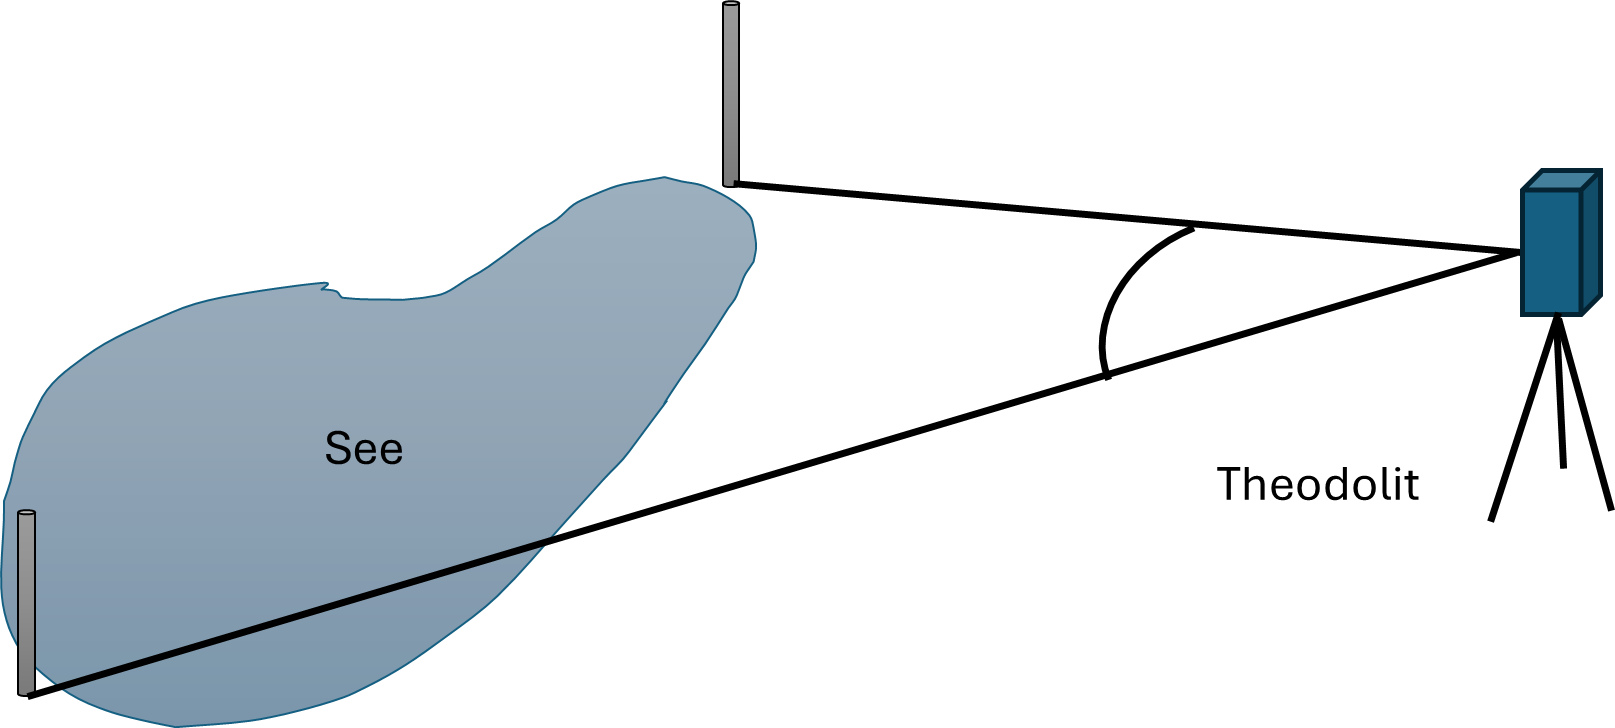
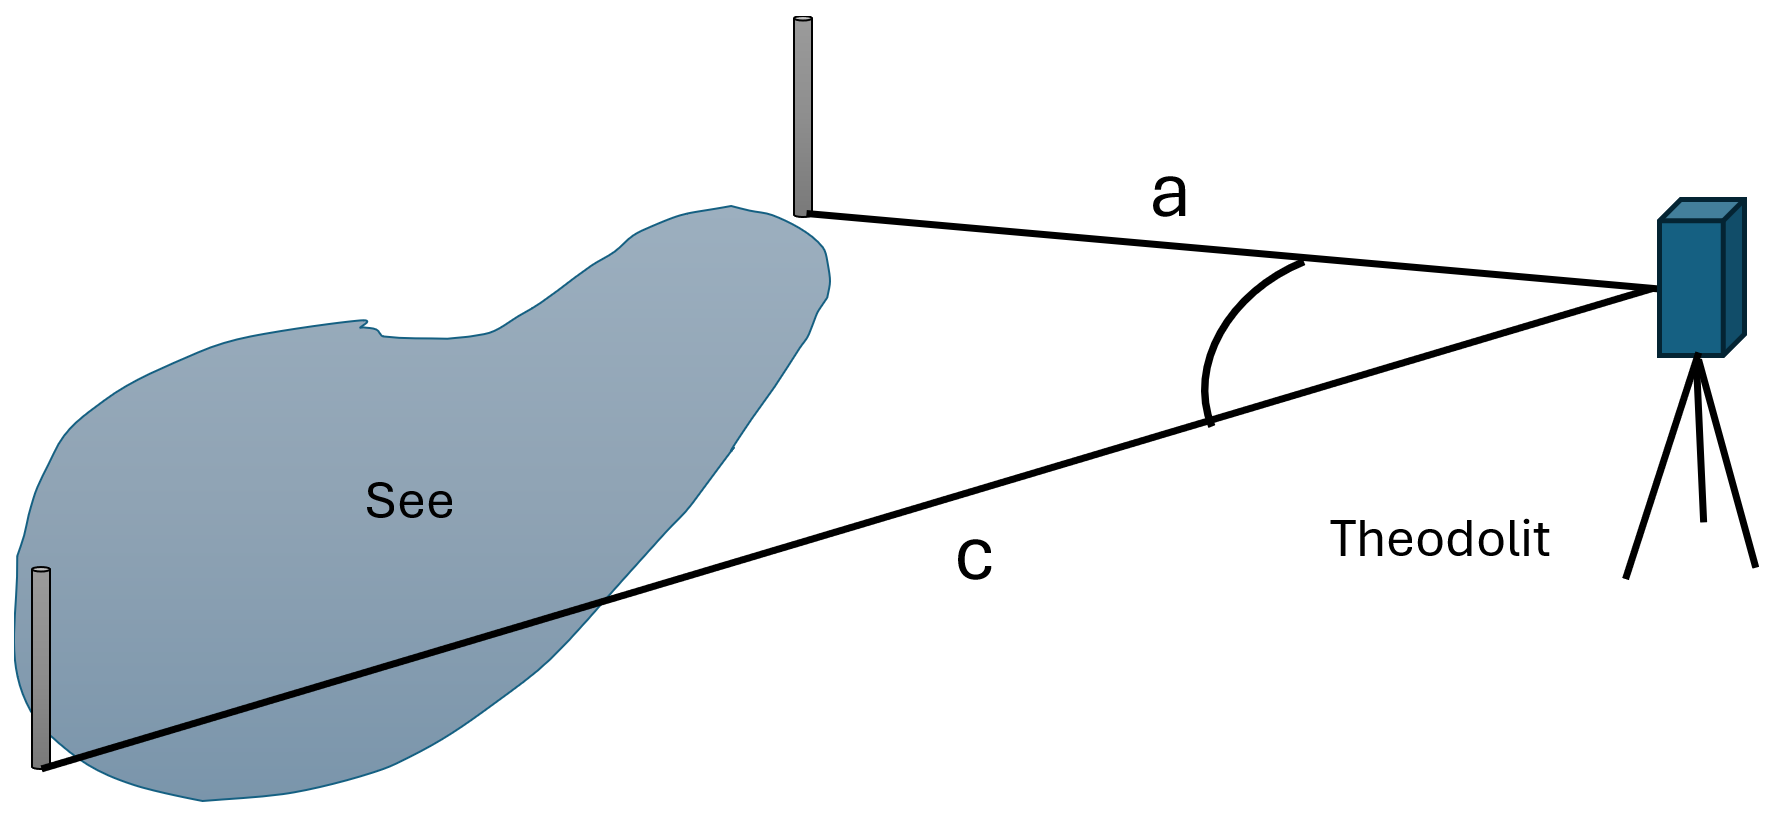
fehler behoben

diff --git a/Aufgaben/Mittelstufe_Geometrie.py b/Aufgaben/Mittelstufe_Geometrie.py
@@ -679,6 +679,7 @@ def sachaufgabe_rampe(nr, BE=[]):
 
 def berechnungen_allg_dreieck(nr, teilaufg=['a', 'b', 'c'], BE=[]):
     # Berechnungen im allgemeinen Dreieck
+    # Mit dem Parameter "teilaufg=" können die Teilaufgaben ausgewählt werden. Zum Beispiel "teilaufg=['a', 'c']" erzeugt eine Aufgabe, in der nur Teilaufgabe 'a' und 'c' enthalten sind.
     # Mit dem Parameter "BE=[]" kann die Anzahl der Bewertungseinheiten festgelegt werden. Wird hier nichts eingetragen, werden die Standardbewertungseinheiten verwendet.
     liste_punkte = []
     liste_bez = []
@@ -718,7 +719,7 @@ def berechnungen_allg_dreieck(nr, teilaufg=['a', 'b', 'c'], BE=[]):
         ges_b =  ',~' + seite_3
     if 'c' in teilaufg:
         ges_c = ',~ A'
-    gegeben_und_gesucht = (' \mathrm{geg:~} ' + seite_1 + '~=~' + gzahl(seite_wert_1)
+    gegeben_und_gesucht = (r' \mathrm{geg:~} ' + seite_1 + '~=~' + gzahl(seite_wert_1)
                            + r'cm, \quad ' + seite_2 + '~=~' + gzahl(seite_wert_2) + r'cm, \quad ' + winkel_1
                            + '~=~' + latex(winkel_wert_1) + r'^{ \circ } \quad \mathrm{ges \colon ~}'
                            + ges_a + ges_b + ges_c + r' \quad (1BE) \quad \mathrm{aus~der~Planskizze~(1BE)~folgt:~} \\')
@@ -788,6 +789,7 @@ def berechnungen_allg_dreieck(nr, teilaufg=['a', 'b', 'c'], BE=[]):
 
 def pruefung_kl10_allg_dr_01(nr, teilaufg=['a', 'b', 'c', 'd'], BE=[]):
     # das ist eine orginale Aufgabe der Abschlussprüfung Klasse 10 in Brandenburg zur Trigonometrie
+    # Mit dem Parameter "teilaufg=" können die Teilaufgaben ausgewählt werden. Zum Beispiel "teilaufg=['a', 'c']" erzeugt eine Aufgabe, in der nur Teilaufgabe 'a' und 'c' enthalten sind.
     # Mit dem Parameter "BE=[]" kann die Anzahl der Bewertungseinheiten festgelegt werden. Wird hier nichts eingetragen, werden die Standardbewertungseinheiten verwendet.
     liste_punkte = []
     liste_bez = []
@@ -903,16 +905,16 @@ def sachaufgabe_vermessung_see(nr, BE=[]):
 
     aufgabe = [MediumText(bold('Aufgabe ' + str(nr) + ' \n\n')),
                'Um die Länge eines Sees zu vermessen, wurden mit einem Theodoliten die Entfernung zu den äußeren '
-               f'Ufern mit {gzahl(seite_a)}km und {gzahl(seite_c)}km und der eingeschlossen Winkel von {gzahl(beta)}° '
-               f'bestimmt. Berechnen Sie die Länge des Sees.', 'Bild',
+               f'Ufern mit a = {gzahl(seite_a)}km und c = {gzahl(seite_c)}km und der eingeschlossen Winkel von '
+               f'{gzahl(beta)}° bestimmt. Berechnen Sie die Länge des Sees.', 'Bild',
                'Die Skizze der Vermessung des Sees ist nicht maßstabsgerecht \n\n']
     loesung = [r' \mathbf{Lösung~Aufgabe~}' + str(nr) + r' \hspace{35em} \\',
                r' \mathrm{Planskizze \quad (1BE) \quad \to \quad geg  \colon ~ a ~=~' + gzahl(seite_a)
                + r' km, ~ c ~=~' + gzahl(seite_c) + r'km \quad \mathrm{und} \quad \beta ~=~' + gzahl(beta)
                + r' ^{ \circ} \quad ges \colon  b \quad (1BE)} \\ b ~=~ \sqrt{a^2 + c^2 - 2ac \cdot cos( \beta ) }'
-               + r' ~=~ \sqrt{ (' + gzahl(seite_a) + 'km) ^2 + (' + gzahl(seite_c) + r'km)^2 - 2 ~ \cdot' + gzahl(seite_a)
-               + r'km \cdot ' + gzahl(seite_c) + r'km \cdot cos(' + gzahl(beta) + r'^{ \circ} )} ~=~' + gzahl(seite_b)
-               + r'km  \quad (3BE)']
+               + r' ~=~ \sqrt{ (' + gzahl(seite_a) + 'km) ^2 + (' + gzahl(seite_c) + r'km)^2 - 2 ~ \cdot'
+               + gzahl(seite_a) + r'km \cdot ' + gzahl(seite_c) + r'km \cdot cos(' + gzahl(beta) + r'^{ \circ} )} ~=~'
+               + gzahl(seite_b) + r'km  \quad (3BE)']
     grafiken_aufgaben = ['vermessung_see']
     grafiken_loesung = []
 
@@ -932,7 +934,7 @@ def sachaufgabe_strassenbau(nr, BE=[]):
     # Mit dem Parameter "BE=[]" kann die Anzahl der Bewertungseinheiten festgelegt werden. Wird hier nichts eingetragen, werden die Standardbewertungseinheiten verwendet.
     liste_bez = [f'{nr}']
     i = 0
-    gamma = random.choice([nzahl(60, 85), nzahl(95,120)])
+    gamma = nzahl(95,120)
     beta = nzahl(15,45)
     seite_c = nzahl(6, 12)
     seite_b = round(seite_c * math.sin(math.radians(beta)) / math.sin(math.radians(gamma)), 1)

diff --git a/temp/MA 10f Test allgemeines Dreiecke.py b/temp/MA 10f Test allgemeines Dreiecke.py
@@ -16,7 +16,7 @@ Art = '2. Klassenarbeit'
 Titel = 'Trigonometrie im allgemeinen Dreieck'
 datum_delta = 1  # in Tagen (0 ist Heute und 1 ist Morgen, 2 Übermorgen, usw.)
 anzahl = 2 # wie viele verschiedenen Tests sollen erzeugt werden
-probe = True # True: Probe 01, 02 usw. oder False: Gr. A, Gr. B usw
+probe = False # True: Probe 01, 02 usw. oder False: Gr. A, Gr. B usw
 
 liste_punkte = ['Punkte']
 liste_bez = ['Aufgabe']
